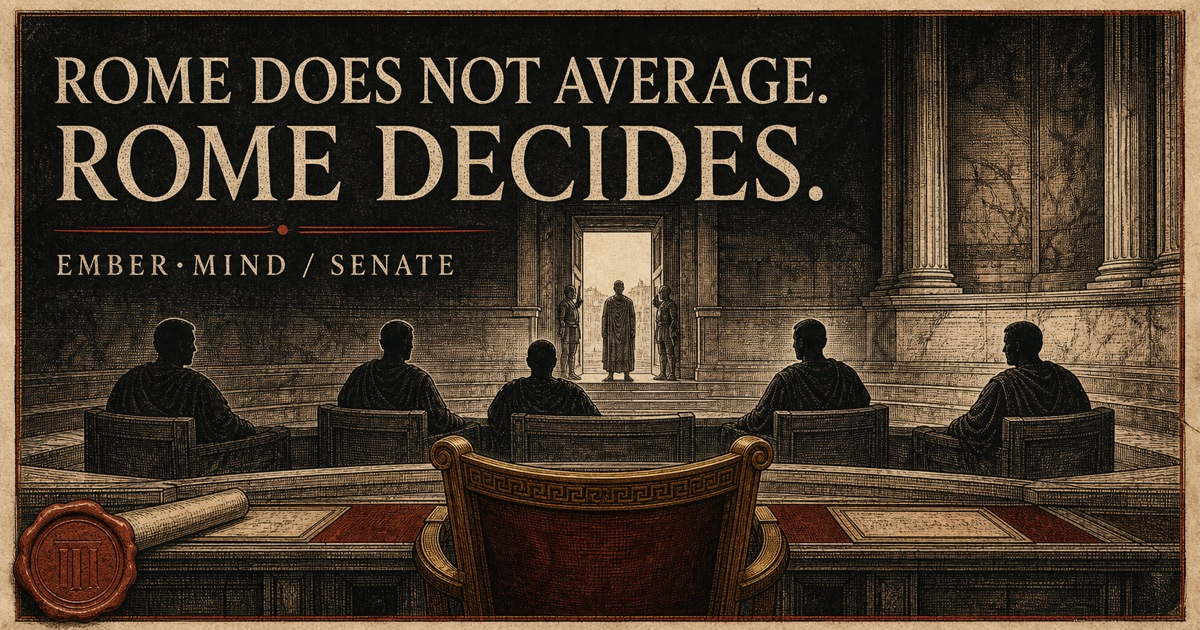
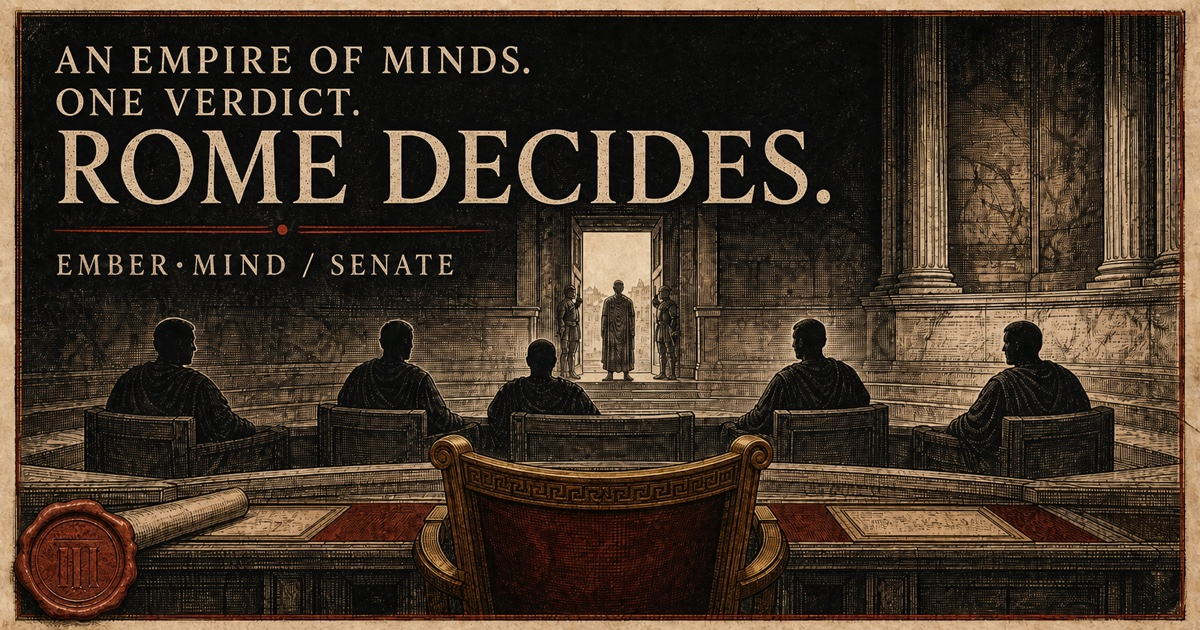
Refresh Senate hero motto

diff --git a/README.md b/README.md
@@ -1,7 +1,7 @@
 <p align="center">
   <img
     src="assets/readme/hero.jpg"
-    alt="Rome does not average. Rome decides. Five senators sit in the Curia while a Foreign Envoy waits beyond the guarded doors."
+    alt="An empire of minds. One verdict. Rome decides. Five senators sit in the Curia while a Foreign Envoy waits beyond the guarded doors."
     width="100%"
   >
 </p>
